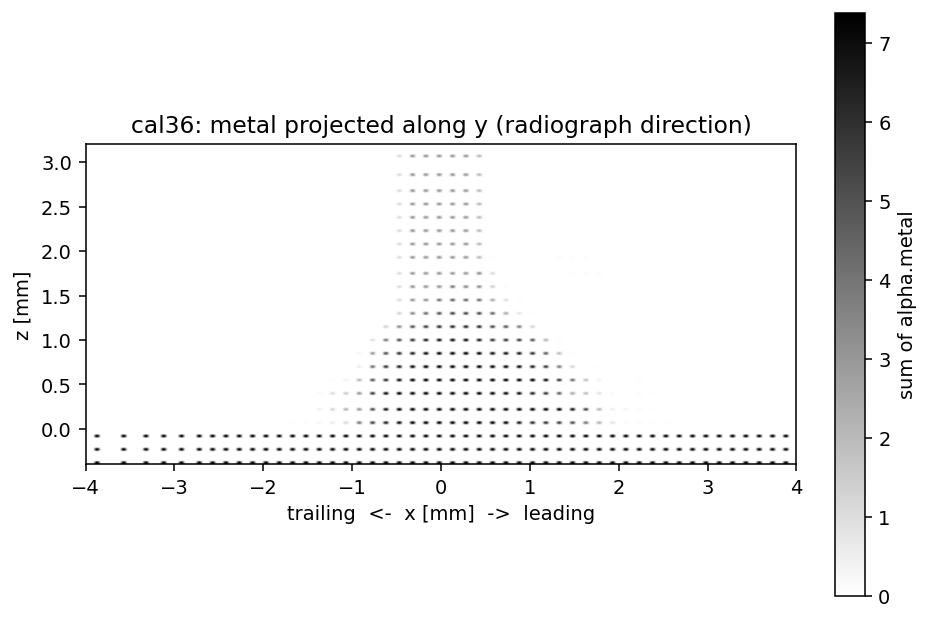
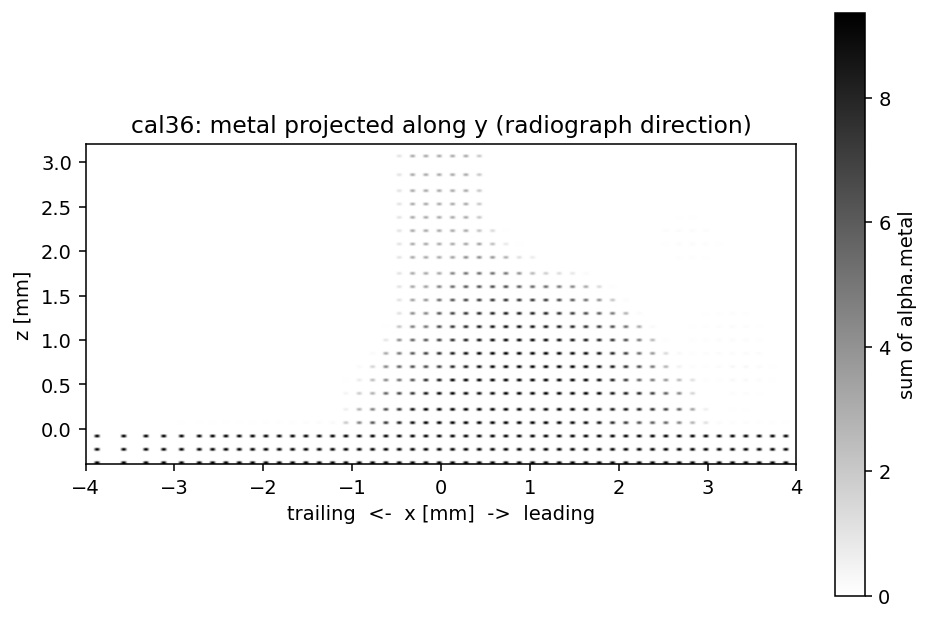
Score the 700 W continuation at 0.80 s.
The trailing crest is 2.22 mm and the leading crest has fallen to 0.84 mm, with the wire line fully pinned. The wake is still open, so the run goes on to 1.00 s and a faster scan tests whether a pinch-off can freeze.

diff --git a/results/calibration/taosun03/score_screens.py b/results/calibration/taosun03/score_screens.py
@@ -72,6 +72,7 @@ QUESTIONS = {
     "cal81": "powers 40/40/560 at scan 2 mm/s",
     "cal82": "650 W rear spot with 45/120 window",
     "cal83": "700 W with 45/120 window",
+    "cal84": "700 W at scan 5 mm/s",
 }
 
 

diff --git a/results/calibration/taosun03/README.md b/results/calibration/taosun03/README.md
@@ -66,8 +66,8 @@ The radiograph is a rounded dome about 1.5–2 mm tall, higher on the trailing s
 
 | tag | t | score | trail / lead | wire line | cavity | what it shows |
 | --- | --- | --- | --- | --- | --- | --- |
-| cal43 | 0.32 s | 8 | 1.61 / 0.99 mm | 0.84–1.76 mm, 9/11 pinned | open, 3.66 mm³, centre y = 1.01 mm | Lowest leading crest. Continued to 0.80 s. |
-| cal36 | 0.36 s | 8 | 1.76 / 1.15 mm | 1.15–1.76 mm, 8/9 pinned | open, 3.25 mm³, centre y = 1.04 mm | Tall trailing crest, lower leading side. Continued to 0.80 s. |
+| cal36 | 0.80 s | 8 | 2.22 / 0.84 mm | 0.99–2.22 mm, 10/10 pinned | open, 2.72 mm³, centre y = 1.17 mm | Tallest trail and lowest lead. Continued to 1.00 s. |
+| cal43 | 0.32 s | 8 | 1.61 / 0.99 mm | 0.84–1.76 mm, 9/11 pinned | open, 3.66 mm³, centre y = 1.01 mm | Lowest leading crest at the short time. Continued to 0.80 s. |
 | cal35 | 0.45 s | 8 | 1.76 / 1.30 mm | 1.30–1.91 mm, 8/8 pinned | open, 3.18 mm³, centre y = 1.08 mm | Same crest height, line fully pinned above it. Continued to 1.00 s. |
 | cal58 | 0.34 s | 8 | 1.61 / 1.15 mm | 0.99–1.61 mm, 10/10 pinned | open, 3.35 mm³, centre y = 1.01 mm | Front spots 80 W, rear 500 W, scan 2 mm/s. Continued to 0.70 s. |
 | cal32 | 0.70 s | 8 | 1.91 / 1.45 mm | 1.15–1.91 mm, 11/13 pinned | open, 2.61 mm³, centre y = 1.15 mm | 45°/120° window, given time. Tallest trail. Lead rose with it. Not continued further. |
@@ -103,7 +103,7 @@ Aiming that kind of rear-heavy beam at the foot instead (cal46, aim z = 0.30 mm,
 
 More wire at the cal08 heat does not by itself make the trailing bulb. Feed 32 mm/s (cal53) raises the trail to 1.61 mm and the lead to 1.30 mm, with the line fully pinned and eight pinch-offs that do not stay. Feed 28 mm/s (cal42) leaves equal 1.30 mm crests. Scan 1.5 mm/s with the feed cut to 14 mm/s (cal44) puts the crest on the leading side, 1.30 mm against 0.99 mm, and locks a 0.34 mm lack-of-fusion pore in the plate at z ≈ −0.08 mm. The slow scan that did raise a trailing crest is cal35, which kept the feed near 18 mm/s and moved power rearward. cal42, cal44 and cal53 are not continued. The feed is crossed back onto the rear-heavy recipes instead: cal68 is 100+100+700 W at feed 32 mm/s, cal69 is 50+50+650 W at feed 28 mm/s, and cal70 is 50+50+650 W with the 60°/140° window.
 
-cal36 puts 700 W in the rear spot and 100 W in each front spot, at scan 3 mm/s and feed 20 mm/s, with the plain 30°/90° wire window. At 0.36 s the leading crest is only 1.15 mm, so the trail stands 0.61 mm above it. The wire line is pinned on 8 of 9 cells and its top is the crest. The cavity is open and centred at y = 1.04 mm. Four pinch-offs were single mobile cells; none was locked, and there is no closure. One of those cells sat near the center plane (y ≈ 0.07 mm) and then vanished. The molten plate line is entirely receding at a mean angle of 64°. Travel is 1.1 mm. It is continued to 0.80 s. Comparison: `cal36_vs_radiograph.png`.
+cal36 puts 700 W in the rear spot and 100 W in each front spot, at scan 3 mm/s and feed 20 mm/s, with the plain 30°/90° wire window. At 0.36 s the leading crest is only 1.15 mm, so the trail stands 0.61 mm above it. The wire line is pinned on 8 of 9 cells and its top is the crest. The cavity is open and centred at y = 1.04 mm. Four pinch-offs were single mobile cells; none was locked, and there is no closure. One of those cells sat near the center plane (y ≈ 0.07 mm) and then vanished. The molten plate line is entirely receding at a mean angle of 64°. Travel is 1.1 mm. The continuation is below. Comparison at 0.36 s: `cal36_vs_radiograph.png`, since replaced by the 0.80 s figure.
 
 cal35 is the taller-section screen: scan 2 mm/s, feed 18 mm/s, powers 120+120+560 W, same 30°/90° window. At 0.45 s the leading crest is 1.30 mm, so the trail stands 0.46 mm above it. All 8 wire cells are pinned, from 1.30 mm to 1.91 mm, so the top of the line is one cell above the crest. The cavity is open, centred at y = 1.08 mm. Eleven pinch-offs were recorded and none was locked. The plate line is entirely receding at a mean angle of 57°. Travel is only 0.9 mm against a pool about 2.7 mm long. It is continued to 1.00 s. Comparison: `cal35_vs_radiograph.png`.
 
@@ -144,3 +144,7 @@ cal34 at the same time keeps the leading crest at 1.15 mm while the trail reache
 cal61 puts that 60°/140° window on the 100+100+700 W beams. At 0.40 s the crests are 1.61 mm and 1.15 mm, but only 4 of 10 wire cells are pinned and 6 are receding. A 3-cell mobile gas pore, 0.22 mm, near the center plane at 0.40 s was gone in the final sample. The hotter rear spot does not hold this window, and the run is not continued. Comparison: `cal61_vs_radiograph.png`.
 
 The 45°/120° window is what grew the 1.91 mm trail, so it is crossed onto the rear-heavy splits that kept the lead down. cal82 is 50+50+650 W with that window. cal83 is 100+100+700 W with that window.
+
+At 0.80 s, cal36 is the closest shape so far. The trailing crest is 2.22 mm and the leading crest has fallen to 0.84 mm. All 10 wire cells are pinned from 0.99 mm to 2.22 mm. All 21 molten plate cells are receding, mean angle 44°. The cavity is still open, 2.72 mm³, centred at y = 1.17 mm on the half mesh. Fifty-six pinch-offs were recorded. A single-cell gas pore near the center plane at the last sample did not stay. The crest is at the top of the radiograph's height, so the run is continued only to 1.00 s to see whether one of those pinch-offs locks. Comparison: `cal36_vs_radiograph.png`.
+
+cal84 is the same 100+100+700 W at scan 5 mm/s and feed 22 mm/s, to 0.32 s. The faster pass is a test of whether the tail can freeze around a pinch-off that the 3 mm/s pool keeps open.
